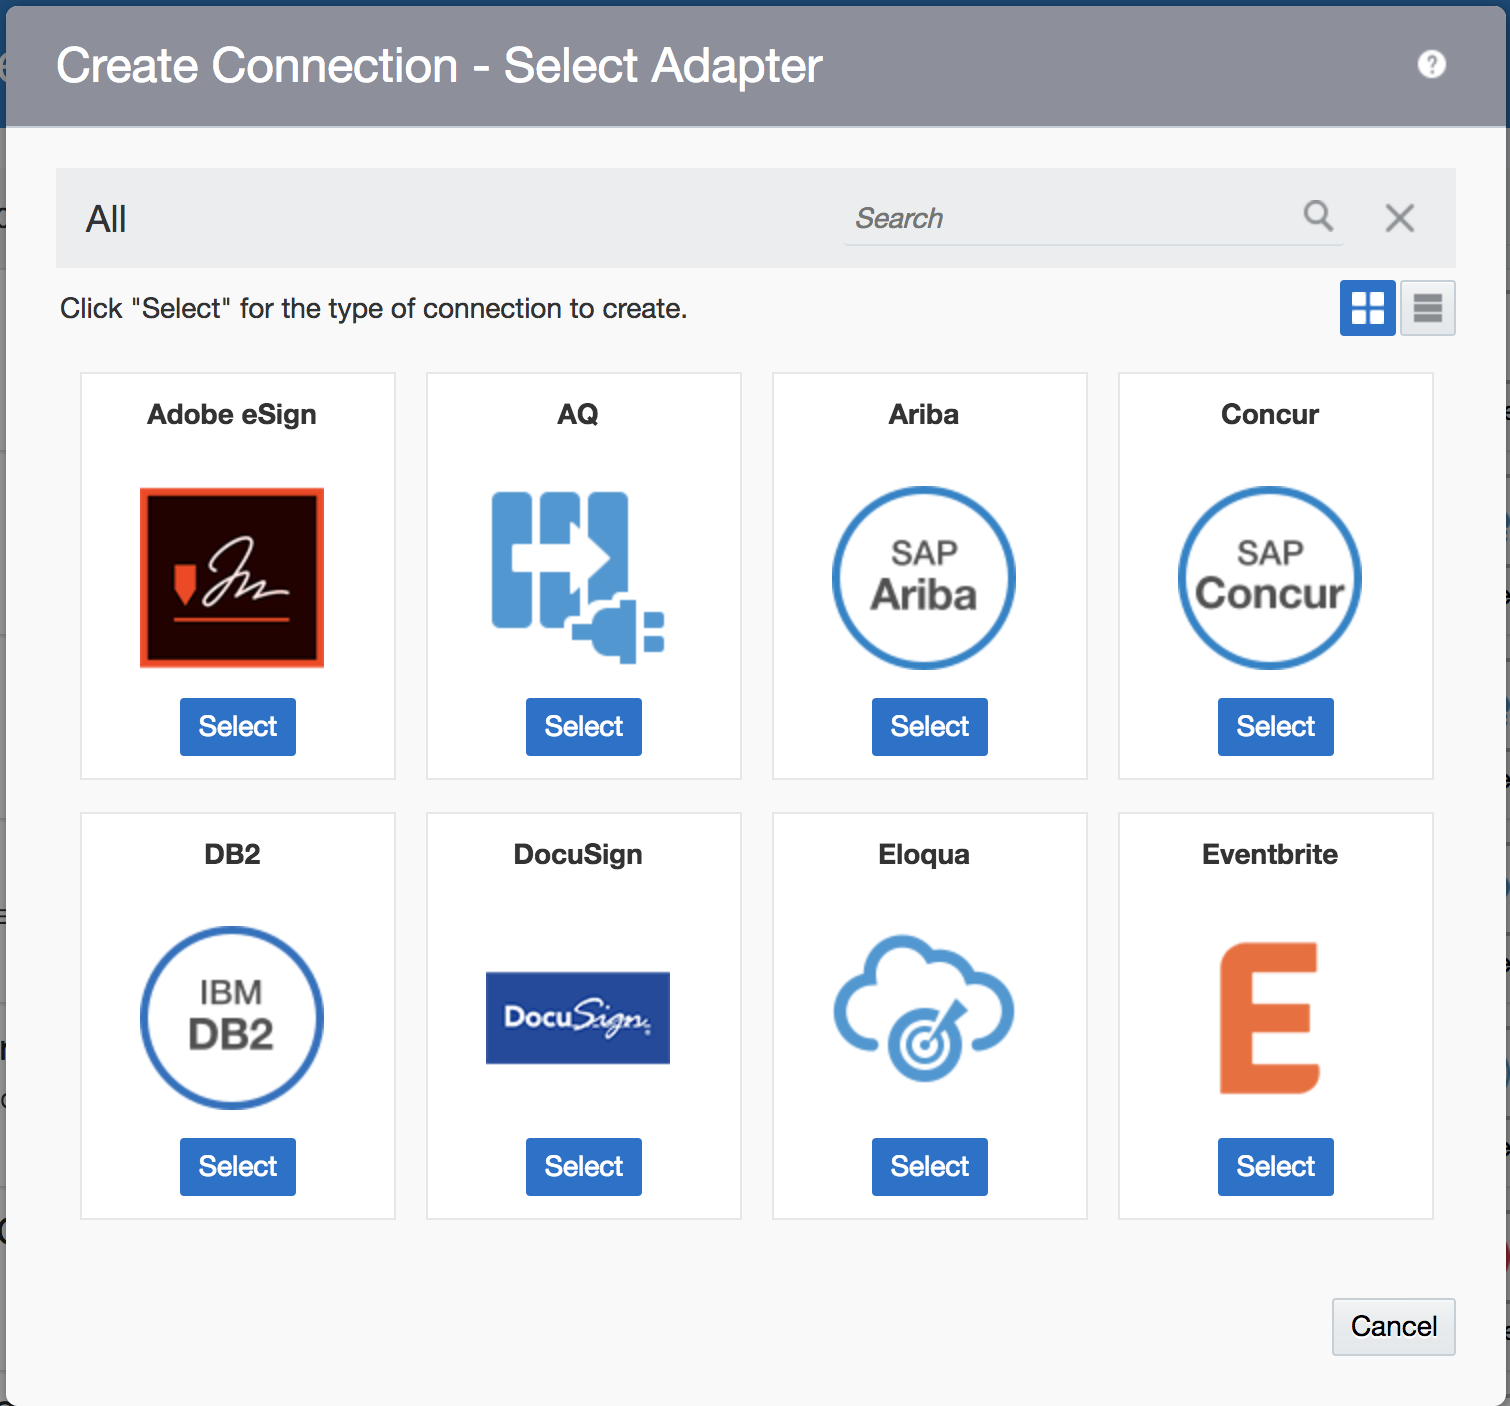
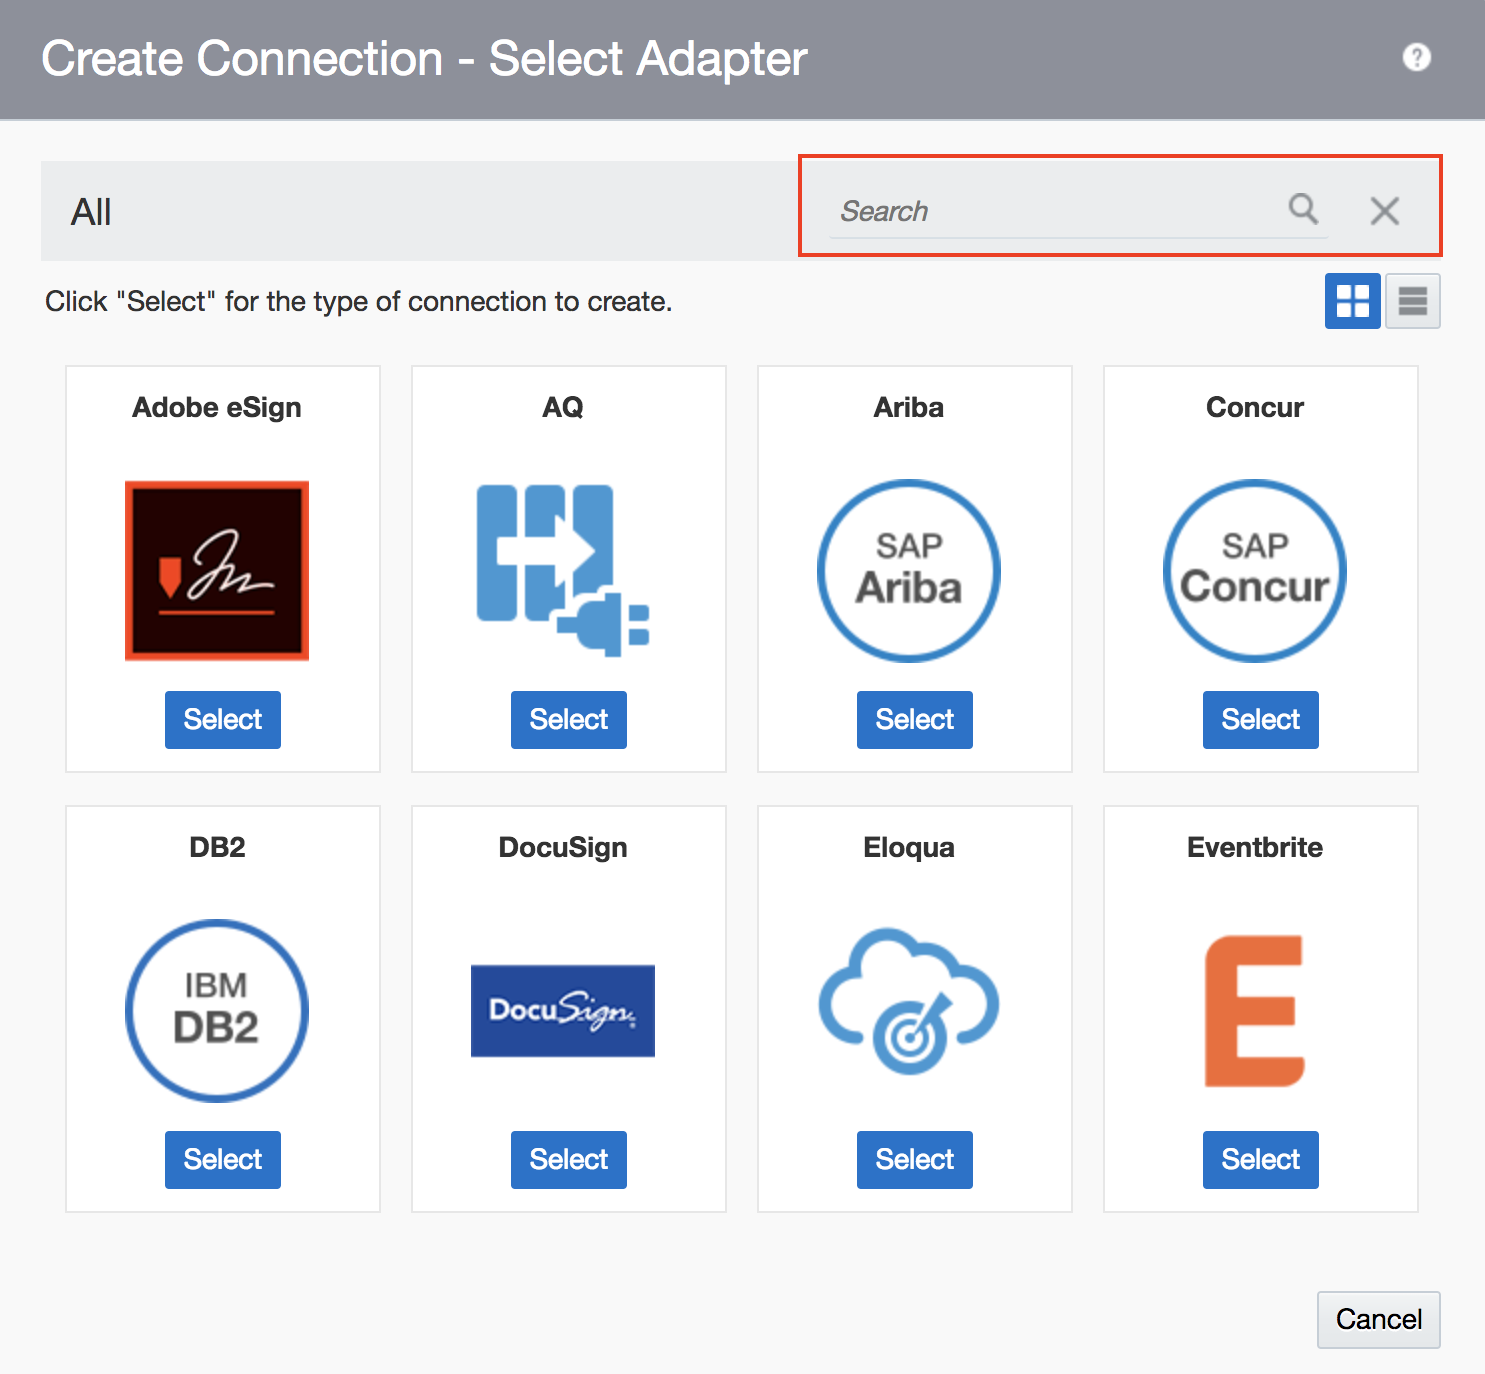
search box

diff --git a/ics300.md b/ics300.md
@@ -44,11 +44,9 @@ Configure connections for the following Fusion SaaS application adapters:
 ![menu](images/300/image304.png)
 
 
-You should see the following dialogue box appear with a list of all Oracle and third party adapters.
-![menu](images/300/image304a.png)
-
 #### 1.1.5: Type ERP in the **_Search_** box on the Top Right
-![menu](images/300/image304.png)
+You can explore all the list of all Oracle and third party adapters available.
+![menu](images/300/image304a.png)
 
 
 
